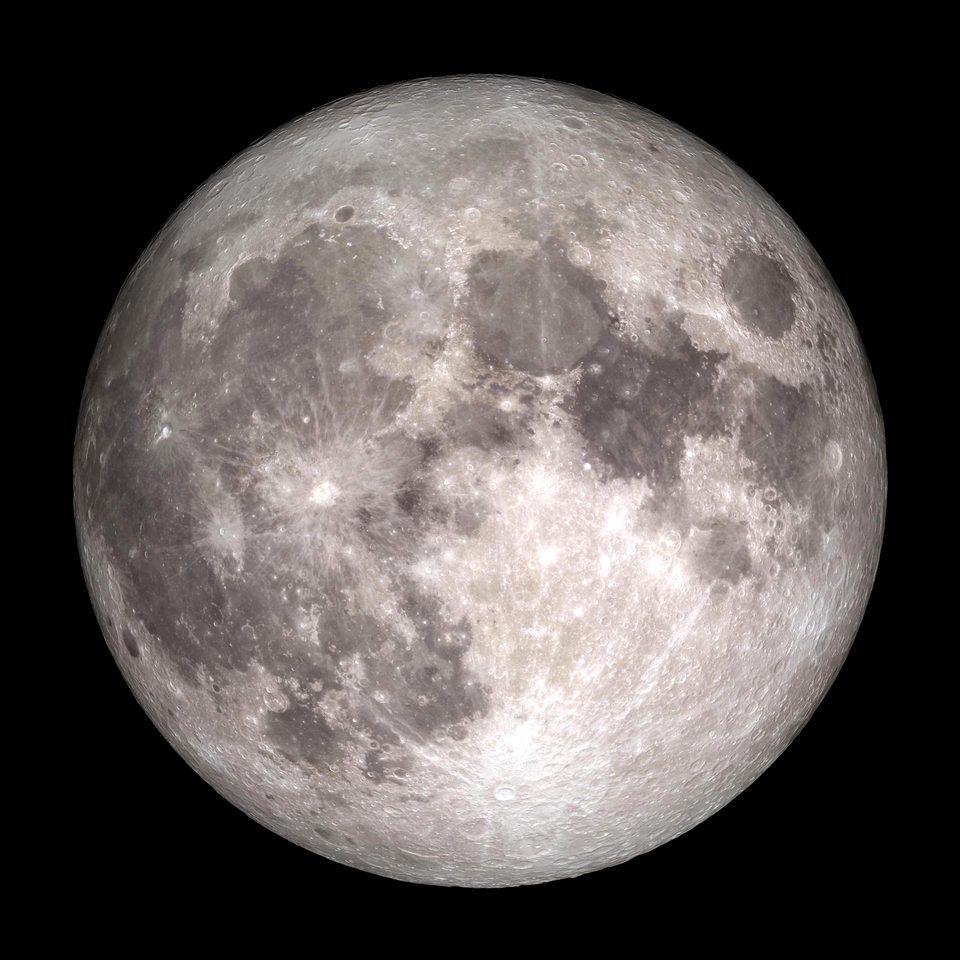
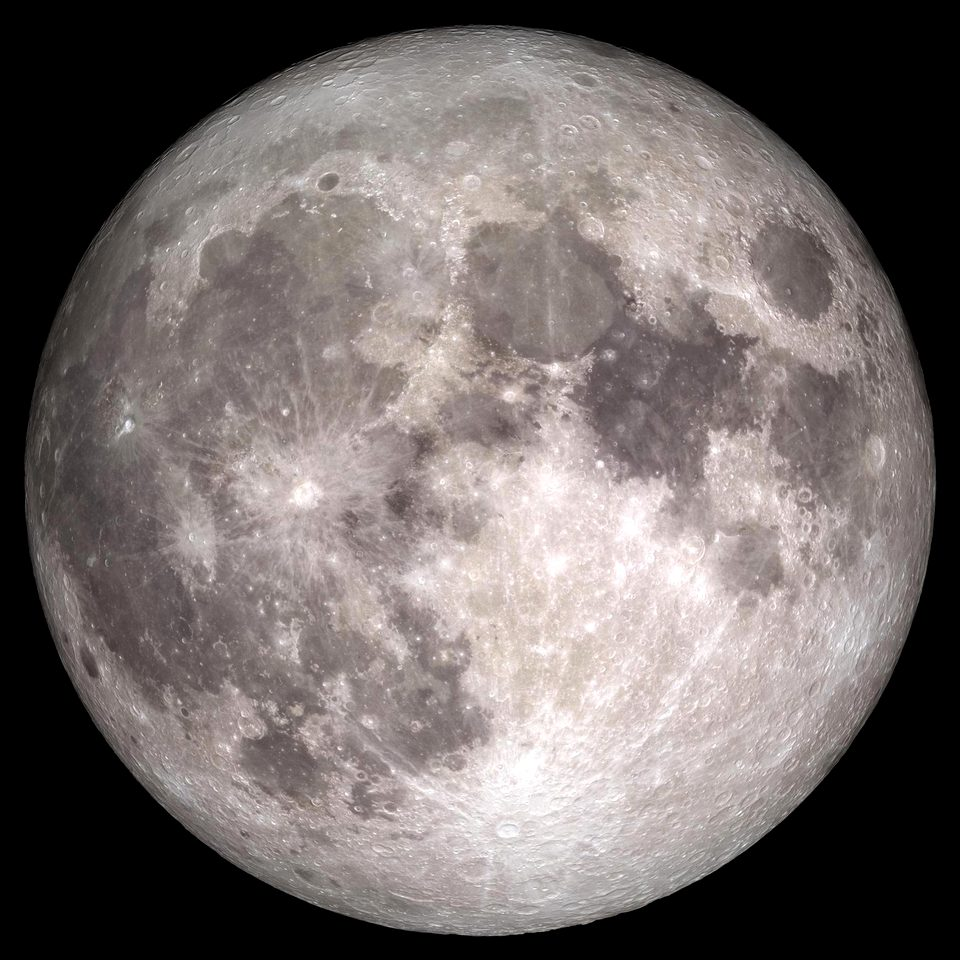
App NexCode: céu fixo com Lua e Terra alternando em órbita a cada 5 minutos; nome do app NexCode
Claude-Session: https://claude.ai/code/session_01964JaHErhDubKEfCWpcCdF

diff --git a/tasks/web/index.html b/tasks/web/index.html
@@ -3,14 +3,14 @@
 <head>
 <meta charset="utf-8">
 <meta name="viewport" content="width=device-width, initial-scale=1, viewport-fit=cover">
-<title>Painel de Tarefas</title>
+<title>NexCode</title>
 <link rel="manifest" href="/manifest.webmanifest">
 <link rel="icon" href="/icon-192.png" type="image/png">
 <link rel="apple-touch-icon" href="/apple-touch-icon.png">
 <meta name="theme-color" content="#03060c">
 <meta name="apple-mobile-web-app-capable" content="yes">
 <meta name="mobile-web-app-capable" content="yes">
-<meta name="apple-mobile-web-app-title" content="Tarefas">
+<meta name="apple-mobile-web-app-title" content="NexCode">
 <meta name="apple-mobile-web-app-status-bar-style" content="black">
 <script src="/md.js"></script>
 <link rel="preconnect" href="https://fonts.googleapis.com">
@@ -48,22 +48,24 @@ body{margin:0;background:var(--ink);color:var(--text);font:15px/1.55 var(--body)
 
 /* abertura */
 .hero{position:relative;padding:56px 0 36px;min-height:280px}
-/* Lua real (NASA). O recorte redondo e a sombra do terminador ficam no contêiner
-   (parados); a foto gira devagar por baixo deles, o que dá sensação de volume.
-   Três movimentos: entrada, flutuação lenta e giro; a rolagem desloca a Lua mais
-   devagar que a página (propriedade translate, definida pelo script). */
-.moon{position:absolute;z-index:-1;width:min(560px,96vw);aspect-ratio:1;right:-200px;top:-210px;pointer-events:none;user-select:none;
-  -webkit-mask-image:radial-gradient(circle at 50% 50%,#000 47.5%,transparent 49.5%),linear-gradient(105deg,transparent 18%,rgba(0,0,0,.35) 34%,#000 52%);
+/* Céu fixo: Lua e Terra (fotos NASA, domínio público) se revezam a cada 5 minutos,
+   cruzando o topo da tela num arco. Recorte redondo + sombra do terminador ficam
+   parados no contêiner; a foto gira devagar por baixo. Posição calculada pelo relógio. */
+.sky{position:fixed;inset:0;z-index:0;pointer-events:none;overflow:hidden}
+.orb{position:absolute;left:0;top:0;width:var(--orb-size,min(500px,80vw));aspect-ratio:1;
+  transform:translate3d(var(--orb-x,60vw),var(--orb-y,-120px),0);transition:transform .5s linear;will-change:transform;
+  filter:brightness(.7) saturate(.9);opacity:.9;
+  -webkit-mask-image:radial-gradient(circle at 50% 50%,#000 47.5%,transparent 49.5%),linear-gradient(var(--light,105deg),transparent 18%,rgba(0,0,0,.35) 34%,#000 52%);
   -webkit-mask-composite:source-in;
-  mask-image:radial-gradient(circle at 50% 50%,#000 47.5%,transparent 49.5%),linear-gradient(105deg,transparent 18%,rgba(0,0,0,.35) 34%,#000 52%);
-  mask-composite:intersect;
-  translate:0 var(--moon-y,0px);
-  animation:rise 1.6s cubic-bezier(.2,.7,.1,1) both,drift 16s ease-in-out 1.6s infinite alternate}
-.moon img{display:block;width:100%;height:100%;filter:saturate(.85) contrast(1.05);animation:spin 240s linear infinite;will-change:transform}
-@keyframes rise{from{opacity:0;transform:translateY(30px)}to{opacity:1;transform:none}}
-@keyframes drift{from{transform:translate(0,0)}to{transform:translate(-10px,14px)}}
+  mask-image:radial-gradient(circle at 50% 50%,#000 47.5%,transparent 49.5%),linear-gradient(var(--light,105deg),transparent 18%,rgba(0,0,0,.35) 34%,#000 52%);
+  mask-composite:intersect;animation:rise 1.6s cubic-bezier(.2,.7,.1,1) both}
+.orb img{position:absolute;inset:0;width:100%;height:100%;opacity:0;transition:opacity 1.6s ease;animation:spin 240s linear infinite}
+.orb[data-body=moon] .b-moon,.orb[data-body=earth] .b-earth{opacity:1}
+.wrap{z-index:1}
+h1,.hero .sub,h2,.masthead{text-shadow:0 2px 24px rgba(3,6,12,.95),0 0 2px rgba(3,6,12,.9)}
+@keyframes rise{from{opacity:0}to{opacity:1}}
 @keyframes spin{to{transform:rotate(360deg)}}
-@media (prefers-reduced-motion:reduce){.moon,.moon img{animation:none}}
+@media (prefers-reduced-motion:reduce){.orb,.orb img{animation:none;transition:none}}
 h1{font:800 clamp(64px,13vw,150px)/.88 var(--display);font-stretch:112%;letter-spacing:-.035em;margin:0;text-wrap:balance}
 .hero .sub{max-width:34ch;margin-top:18px;color:var(--muted);font-size:15px}
 .sub{color:var(--muted);font-size:14px}
@@ -189,7 +191,7 @@ dialog p{margin:0;color:var(--muted);font-size:14px}
 .toast.show{opacity:1}
 @media (max-width:640px){
   .hero{padding:40px 0 28px;min-height:0}
-  .moon{width:340px;right:-150px;top:-120px}
+
   .stats{margin-top:26px}
   .stat{padding:12px 8px 2px}
   .stat b{font-size:28px}
@@ -204,6 +206,12 @@ dialog p{margin:0;color:var(--muted);font-size:14px}
 </style>
 </head>
 <body>
+<div class="sky" aria-hidden="true">
+  <div class="orb" id="orb" data-body="moon">
+    <img class="b-moon" src="/moon.jpg" alt="" width="960" height="960" decoding="async">
+    <img class="b-earth" src="/earth.jpg" alt="" width="960" height="960" decoding="async" loading="lazy">
+  </div>
+</div>
 <div class="wrap">
   <header class="masthead">
     <div class="brand"><img src="/icon-192.png" alt="" width="34" height="34">NexCode</div>
@@ -215,7 +223,6 @@ dialog p{margin:0;color:var(--muted);font-size:14px}
   </header>
 
   <section class="hero">
-    <div class="moon" aria-hidden="true"><img src="/moon.jpg" alt="" width="960" height="960" decoding="async"></div>
     <h1>Tarefas.</h1>
     <p class="sub">O NexCode Agente trabalha nas pendentes de hora em hora, pela ordem de prioridade.</p>
     <div class="stats" id="stats"></div>
@@ -833,15 +840,29 @@ $("#sync").addEventListener("click", async e => {
 
 $("#logbox").addEventListener("toggle", () => { if ($("#logbox").open) loadLog(); });
 
-// ---- Lua acompanha a rolagem mais devagar (profundidade) ----
+// ---- Órbita: Lua (direita -> esquerda) e Terra (esquerda -> direita), 5 min cada ----
 (() => {
-  const moon = document.querySelector(".moon");
-  if (!moon || matchMedia("(prefers-reduced-motion: reduce)").matches) return;
-  let ticking = false;
-  addEventListener("scroll", () => {
-    if (ticking) return; ticking = true;
-    requestAnimationFrame(() => { moon.style.setProperty("--moon-y", Math.min(scrollY, 900) * 0.35 + "px"); ticking = false; });
-  }, { passive: true });
+  const orb = document.getElementById("orb");
+  if (!orb) return;
+  const PERIOD = 5 * 60 * 1000;
+  const still = matchMedia("(prefers-reduced-motion: reduce)").matches;
+  function place(){
+    const W = innerWidth, S = Math.min(500, W * 0.8);
+    orb.style.setProperty("--orb-size", S + "px");
+    const now = Date.now(), lap = Math.floor(now / PERIOD), p = still ? 0 : (now % PERIOD) / PERIOD;
+    const moon = still || lap % 2 === 0;
+    const e = 0.5 - 0.5 * Math.cos(Math.PI * p);           // acelera e desacelera
+    const right = W - S * 0.5, left = -S * 0.5;               // metade do disco visível nas pontas
+    const x = moon ? right + (left - right) * e : left + (right - left) * e;
+    const y = -S * 0.62 + S * 0.24 * Math.sin(Math.PI * e);  // arco perto do topo: só a parte de baixo aparece
+    orb.dataset.body = moon ? "moon" : "earth";
+    orb.style.setProperty("--light", moon ? "105deg" : "255deg"); // luz vem do lado para onde vai
+    orb.style.setProperty("--orb-x", x.toFixed(1) + "px");
+    orb.style.setProperty("--orb-y", y.toFixed(1) + "px");
+  }
+  place();
+  if (!still) setInterval(() => { if (!document.hidden) place(); }, 500);
+  addEventListener("resize", place);
 })();
 
 // ---- App instalável (PWA) ----

diff --git a/cloudflare/src/worker.js b/cloudflare/src/worker.js
@@ -5,14 +5,15 @@ import HTML from "../../tasks/web/index.html";
 import ICON_192 from "../static/icon-192.png";
 import ICON_512 from "../static/icon-512.png";
 import APPLE_ICON from "../static/apple-touch-icon.png";
-import MOON from "../static/moon.jpg"; // foto: NASA Goddard (domínio público)
+import MOON from "../static/moon.jpg"; // fotos: NASA Goddard (domínio público)
+import EARTH from "../static/earth.jpg";
 import { md } from "./md.js";
 import { newVapidKeys, sendPush } from "./push.js";
 import { nextRun, describe } from "./recur.js";
 
 const MANIFEST = JSON.stringify({
-  name: "Painel de Tarefas",
-  short_name: "Tarefas",
+  name: "NexCode",
+  short_name: "NexCode",
   description: "Suas tarefas, feitas pelo NexCode Agente de hora em hora.",
   lang: "pt-BR",
   start_url: "/",
@@ -30,8 +31,8 @@ const MANIFEST = JSON.stringify({
 
 // Service worker: guarda só a página e os ícones para abrir rápido (as tarefas, em
 // /api, sempre vêm da internet) e mostra os avisos (push) no celular.
-const SW = `const C = "painel-v4";
-self.addEventListener("install", e => { e.waitUntil(caches.open(C).then(c => c.addAll(["/", "/md.js", "/moon.jpg", "/icon-192.png", "/icon-512.png"]))); self.skipWaiting(); });
+const SW = `const C = "painel-v5";
+self.addEventListener("install", e => { e.waitUntil(caches.open(C).then(c => c.addAll(["/", "/md.js", "/moon.jpg", "/earth.jpg", "/icon-192.png", "/icon-512.png"]))); self.skipWaiting(); });
 self.addEventListener("activate", e => { e.waitUntil(caches.keys().then(ks => Promise.all(ks.filter(k => k !== C).map(k => caches.delete(k))))); self.clients.claim(); });
 self.addEventListener("fetch", e => {
   const u = new URL(e.request.url);
@@ -65,6 +66,7 @@ const STATIC = {
   "/apple-touch-icon.png": [APPLE_ICON, "image/png"],
   "/favicon.ico": [ICON_192, "image/png"],
   "/moon.jpg": [MOON, "image/jpeg"],
+  "/earth.jpg": [EARTH, "image/jpeg"],
 };
 
 const PRIORITIES = { urgente: 4, alta: 3, media: 2, baixa: 1 };
